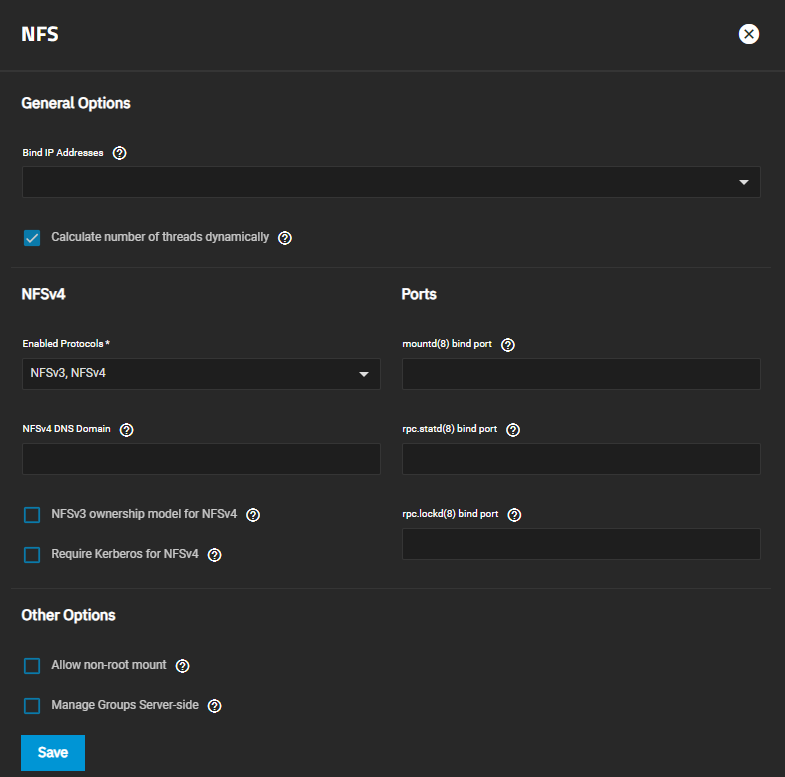
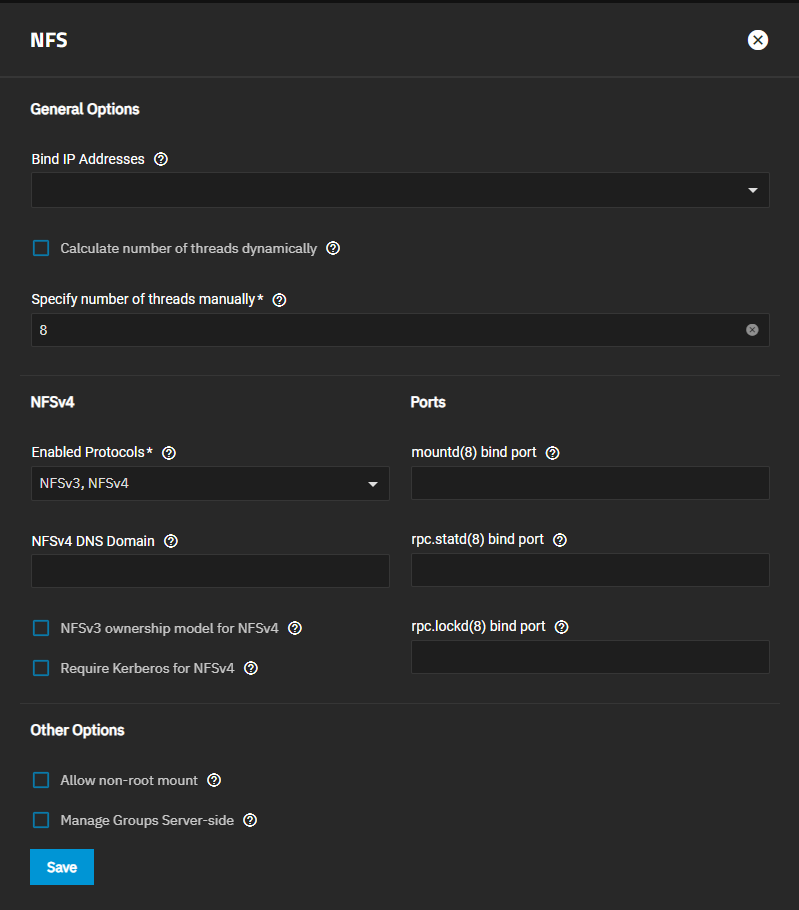
PD-1457 Update the NFS Service Screen and Share Content
This commit updates the UI ref and tutorial content with UI changes made to the NFS Service screen settings.
It adds a new screenshot for the NFS Service screen showing the Specify number of threads manually field.

diff --git a/content/SCALE/SCALEUIReference/SystemSettings/Services/NFSServiceScreen.md b/content/SCALE/SCALEUIReference/SystemSettings/Services/NFSServiceScreen.md
@@ -34,9 +34,9 @@ Select **Start Automatically** to activate the NFS service when TrueNAS boots.
 {{< truetable >}}
 | Setting | Description |
 |---------|-------------|
-| **Bind IP Addresses** | Select IP addresses to listen to for NFS requests. Leave empty for NFS to listen to all available addresses. You must configure static IPs on the interface to appear on the dropdown list. |
+| **Bind IP Addresses** | Select IP addresses to listen to for NFS requests. Leave empty for NFS to listen to all available addresses. You must configure static IPs on the interface form them to appear on the dropdown list. |
 | **Calculate number of threads dynamically** | Automatically sets the number of threads used by the kernel NFS server. |
-| **Specify number of threads manually** | Displays after deselecting **Calculate number of threads dynamically**. Enter an optimal number of threads used by the kernel NFS server. |
+| **Specify number of threads manually** | Shows after deselecting **Calculate number of threads dynamically**. Enter an optimal number of threads used by the kernel NFS server. |
 {{< /truetable >}}
 
 ### NFSv4 Settings
@@ -45,7 +45,8 @@ Select **Start Automatically** to activate the NFS service when TrueNAS boots.
 | Setting | Description |
 |---------|-------------|
 | **Enabled Protocols** | Select NFSv3, NFSv4, or both. If NFSv4 is selected, **NFSv3 ownership model for NFSv4** clears, allowing you to select or leave it clear. |
-| **NFSv3 ownership model for NFSv4** | Becomes selectable after selecting **NFSv4**. Select when you need NFSv4 ACL support without requiring the client and the server to sync users and groups. |
+| **NFSv4 DNS Domain** | Select to use the value to override the default DNS domain name ofr NFSv4. Speicifies the domain idmapd.conf setting. |
+| **NFSv3 ownership model for NFSv4** | Becomes selectable after selecting **NFSv4**. Select when you need NFSv4 ACL support without requiring the client and the server to sync users and groups. Selecting this deactivates the **Manage Groups Server-side** option. |
 | **Require Kerberos for NFSv4** | Select to force NFS shares to fail if the Kerberos ticket is unavailable. |
 {{< /truetable >}}
 

diff --git a/content/SCALE/SCALEUIReference/Shares/NFSSharesScreens.md b/content/SCALE/SCALEUIReference/Shares/NFSSharesScreens.md
@@ -83,7 +83,7 @@ The **Basic Options** settings display by default and also show in the **Advance
 | **Create Dataset** | Click to open the **Create Dataset** dialog. Enter a name to create a new dataset for the share. Click **Create** to add the dataset and populate the **Name** field on the **Add NFS** screen. |
 | **Description** | Enter any notes or reminders about the share. |
 | **Enabled** | Select to enable this NFS share. Clear the checkbox to disable this NFS share without deleting the configuration. |
-| **Add networks** | Click **Add** to display the **Authorized Networks** IP address and CIDR fields. Enter an allowed network IP and select the mask CIDR notation. Click **Add** for each network address and CIDR you want to define as an authorized network. Defining an authorized network restricts access to all other networks. Leave empty to allow all networks. |
+| **Networks** | Click **Add** to display the **Networks** IP address and CIDR fields. Enter an allowed network IP and select the mask CIDR notation. Click **Add** for each network address and CIDR you want to define as an authorized network. Defining an authorized network restricts access to all other networks. Leave empty to allow all networks. |
 | **Add hosts** | Click **Add** to display the **Authorized Hosts and IP addresses** field. Enter a host name or IP address to allow that system access to the NFS share. Click **Add** for each allowed system you want to define. Defining authorized systems restricts access to all other systems. Leave the field empty to allow all systems access to the share. |
 {{< /truetable >}}
 

diff --git a/content/SCALE/SCALETutorials/SystemSettings/Services/NFSServiceSCALE.md b/content/SCALE/SCALETutorials/SystemSettings/Services/NFSServiceSCALE.md
@@ -29,6 +29,7 @@ Select the IP address from the **Bind IP Addresses** dropdown list if you want t
 By default, TrueNAS dynamically calculates the number of threads the kernel NFS server uses. However, if you want to manually enter an optimal number of threads the kernel NFS server uses, clear **Calculate number of threads dynamically** and enter the number of threads you want in the **Specify number of threads manually** field.
 
 If using NFSv4, select **NFSv4** from **Enabled Protocols**. **NFSv3 ownership model for NFSv4** clears, allowing you to enable or leave it clear.
+Selecting **NFSv3 ownership model for NFSv4** deactivates the **Manage Group Server-side** option.
 
 If you want to force NFS shares to fail if the Kerberos ticket is unavailable, select **Require Kerberos for NFSv4**.
 
